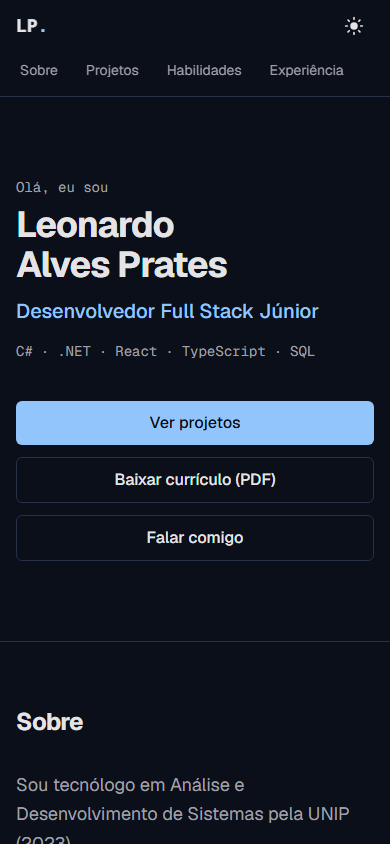
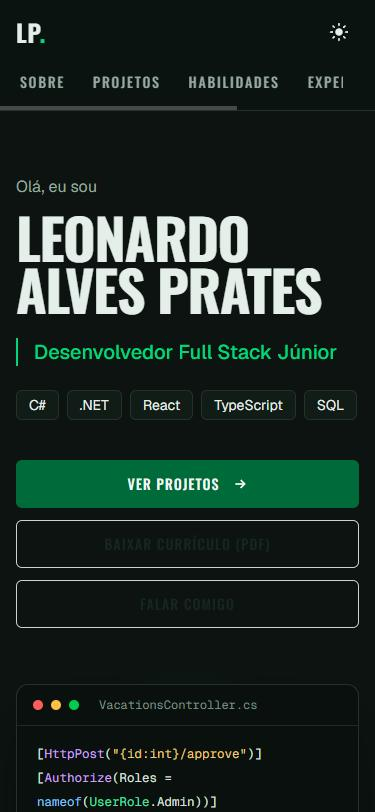
feat(projects): add Service Orders SaaS card and refresh README screenshots
Adiciona o projeto Service Orders SaaS (C#/ASP.NET Core, Clean Architecture,
multi-tenancy, pagamentos Pix) como primeiro card da secao de projetos.
Atualiza as capturas de tela do README (desktop dark, mobile light, mobile dark)
com o design atual do portfolio (visual redesenhado no PR #12).

diff --git a/src/data/projects.ts b/src/data/projects.ts
@@ -22,6 +22,39 @@ export type Project = {
 };
 
 export const projects: Project[] = [
+  // Fonte dos números: README do repositório service-orders-saas (02/10/2026):
+  // 29 testes unitários + 6 de integração (xUnit + Testcontainers) = 35.
+  // 10 endpoints REST listados no README (auth, serviceorders CRUD, stats, export, webhook, health).
+  {
+    slug: "service-orders-saas",
+    title: "Service Orders SaaS",
+    description: {
+      pt: "Plataforma multi-tenant de gestão de ordens de serviço com pagamentos Pix (Mercado Pago). API em C# / ASP.NET Core (Clean Architecture) e painel em Next.js.",
+      en: "Multi-tenant service-order management platform with Pix payments (Mercado Pago). API in C# / ASP.NET Core (Clean Architecture) and a Next.js dashboard.",
+    },
+    status: "done",
+    tech: [
+      "C#",
+      ".NET",
+      "ASP.NET Core",
+      "PostgreSQL",
+      "Clean Architecture",
+      "MediatR",
+      "Next.js",
+      "TypeScript",
+      "Tailwind CSS",
+      "Docker",
+    ],
+    stats: [
+      { value: "35", label: { pt: "testes automatizados", en: "automated tests" } },
+      { value: "10", label: { pt: "endpoints REST", en: "REST endpoints" } },
+      { value: "Pix", label: { pt: "pagamentos integrados", en: "integrated payments" } },
+    ],
+    links: {
+      github: "https://github.com/LeopratesDev/service-orders-saas",
+      demo: "https://service-orders-saas.vercel.app",
+    },
+  },
   // Fonte dos números: CI do repositório rh-manager (commit f4eed1c, 29/09/2026):
   // 35 testes unitários + 77 de integração (xUnit) + 60 no front (Vitest) = 172.
   {
